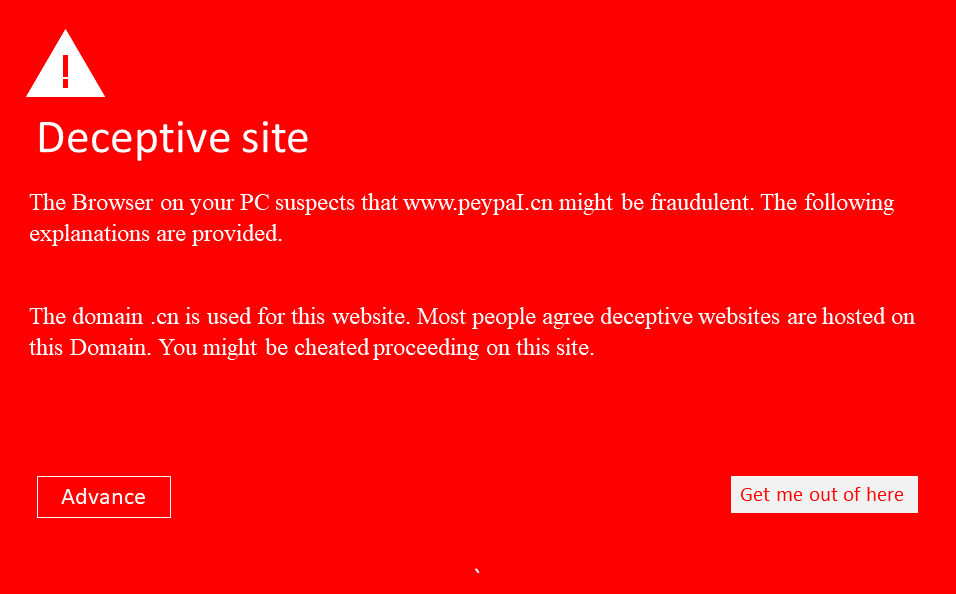
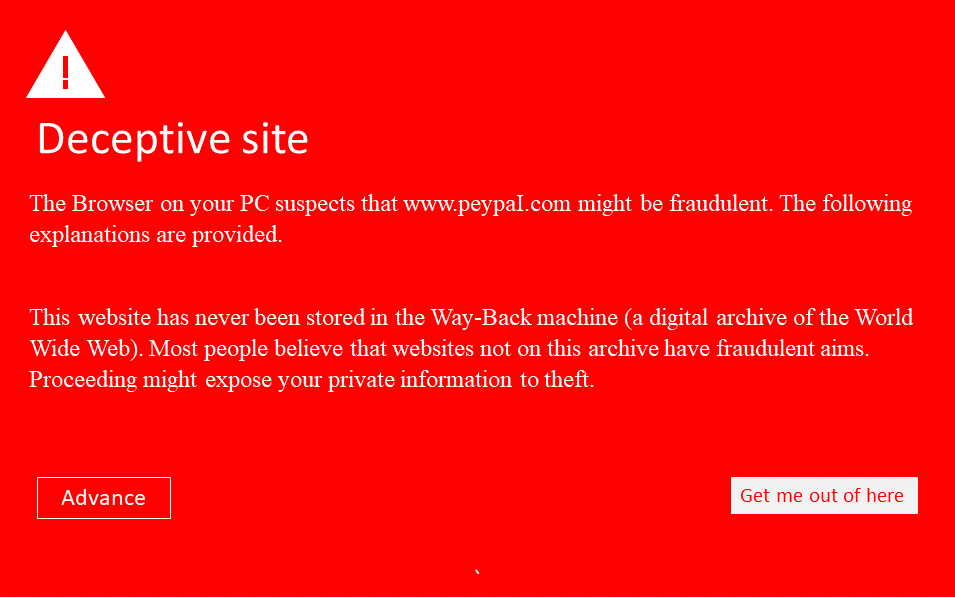
SelectedPhotos column added

diff --git a/pages/summary/index.js b/pages/summary/index.js
@@ -101,6 +101,12 @@ const Summary = () => {
 
     switch (selection) {
       case 0:
+        context.responses.setResponses((prev) => {
+          return {
+            ...prev,
+            SelectedPhotos: "Age",
+          };
+        });
         selection = [
           //age
           reciprocityImage1,
@@ -112,6 +118,12 @@ const Summary = () => {
         ];
         break;
       case 1:
+        context.responses.setResponses((prev) => {
+          return {
+            ...prev,
+            SelectedPhotos: "Alexa",
+          };
+        });
         selection = [
           //alexa
           reciprocityImage2,
@@ -123,6 +135,12 @@ const Summary = () => {
         ];
         break;
       case 2:
+        context.responses.setResponses((prev) => {
+          return {
+            ...prev,
+            SelectedPhotos: "Archive",
+          };
+        });
         selection = [
           //archive
           reciprocityImage3,
@@ -134,6 +152,12 @@ const Summary = () => {
         ];
         break;
       case 3:
+        context.responses.setResponses((prev) => {
+          return {
+            ...prev,
+            SelectedPhotos: "Domain",
+          };
+        });
         selection = [
           //domain
           reciprocityImage4,
@@ -145,6 +169,12 @@ const Summary = () => {
         ];
         break;
       case 4:
+        context.responses.setResponses((prev) => {
+          return {
+            ...prev,
+            SelectedPhotos: "HTTPs",
+          };
+        });
         selection = [
           //https
           reciprocityImage5,
@@ -156,6 +186,12 @@ const Summary = () => {
         ];
         break;
       case 5:
+        context.responses.setResponses((prev) => {
+          return {
+            ...prev,
+            SelectedPhotos: "Server",
+          };
+        });
         selection = [
           //server
           reciprocityImage6,
@@ -167,6 +203,12 @@ const Summary = () => {
         ];
         break;
       case 6:
+        context.responses.setResponses((prev) => {
+          return {
+            ...prev,
+            SelectedPhotos: "URL",
+          };
+        });
         selection = [
           //url
           reciprocityImage7,

diff --git a/store/index.js b/store/index.js
@@ -8,6 +8,7 @@ const Context = React.createContext({
   currentSection: 0,
   setCurrentSection: () => {},
   responses: {
+    SelectedPhotos: "",
     Left: [],
     StartTime: "",
     TotalTime: "",
@@ -98,6 +99,7 @@ export const ContextProvider = (props) => {
   });
   const [questions, setQuestions] = useState({});
   const [responses, setResponses] = useState({
+    SelectedPhotos: "",
     Left: [0, 1, 2],
     StartTime: new Date(),
     TotalTime: "",

diff --git a/pages/admin.js b/pages/admin.js
@@ -71,6 +71,8 @@ const Admin = (props) => {
               response.sectionA[18].value,
 
             // SUMMARY
+            SelectedPhotos:
+              response.SelectedPhotos !== undefined && response.SelectedPhotos,
             Reciprocity:
               response.summary !== undefined && response.summary.reciprocity,
             Scarcity:
